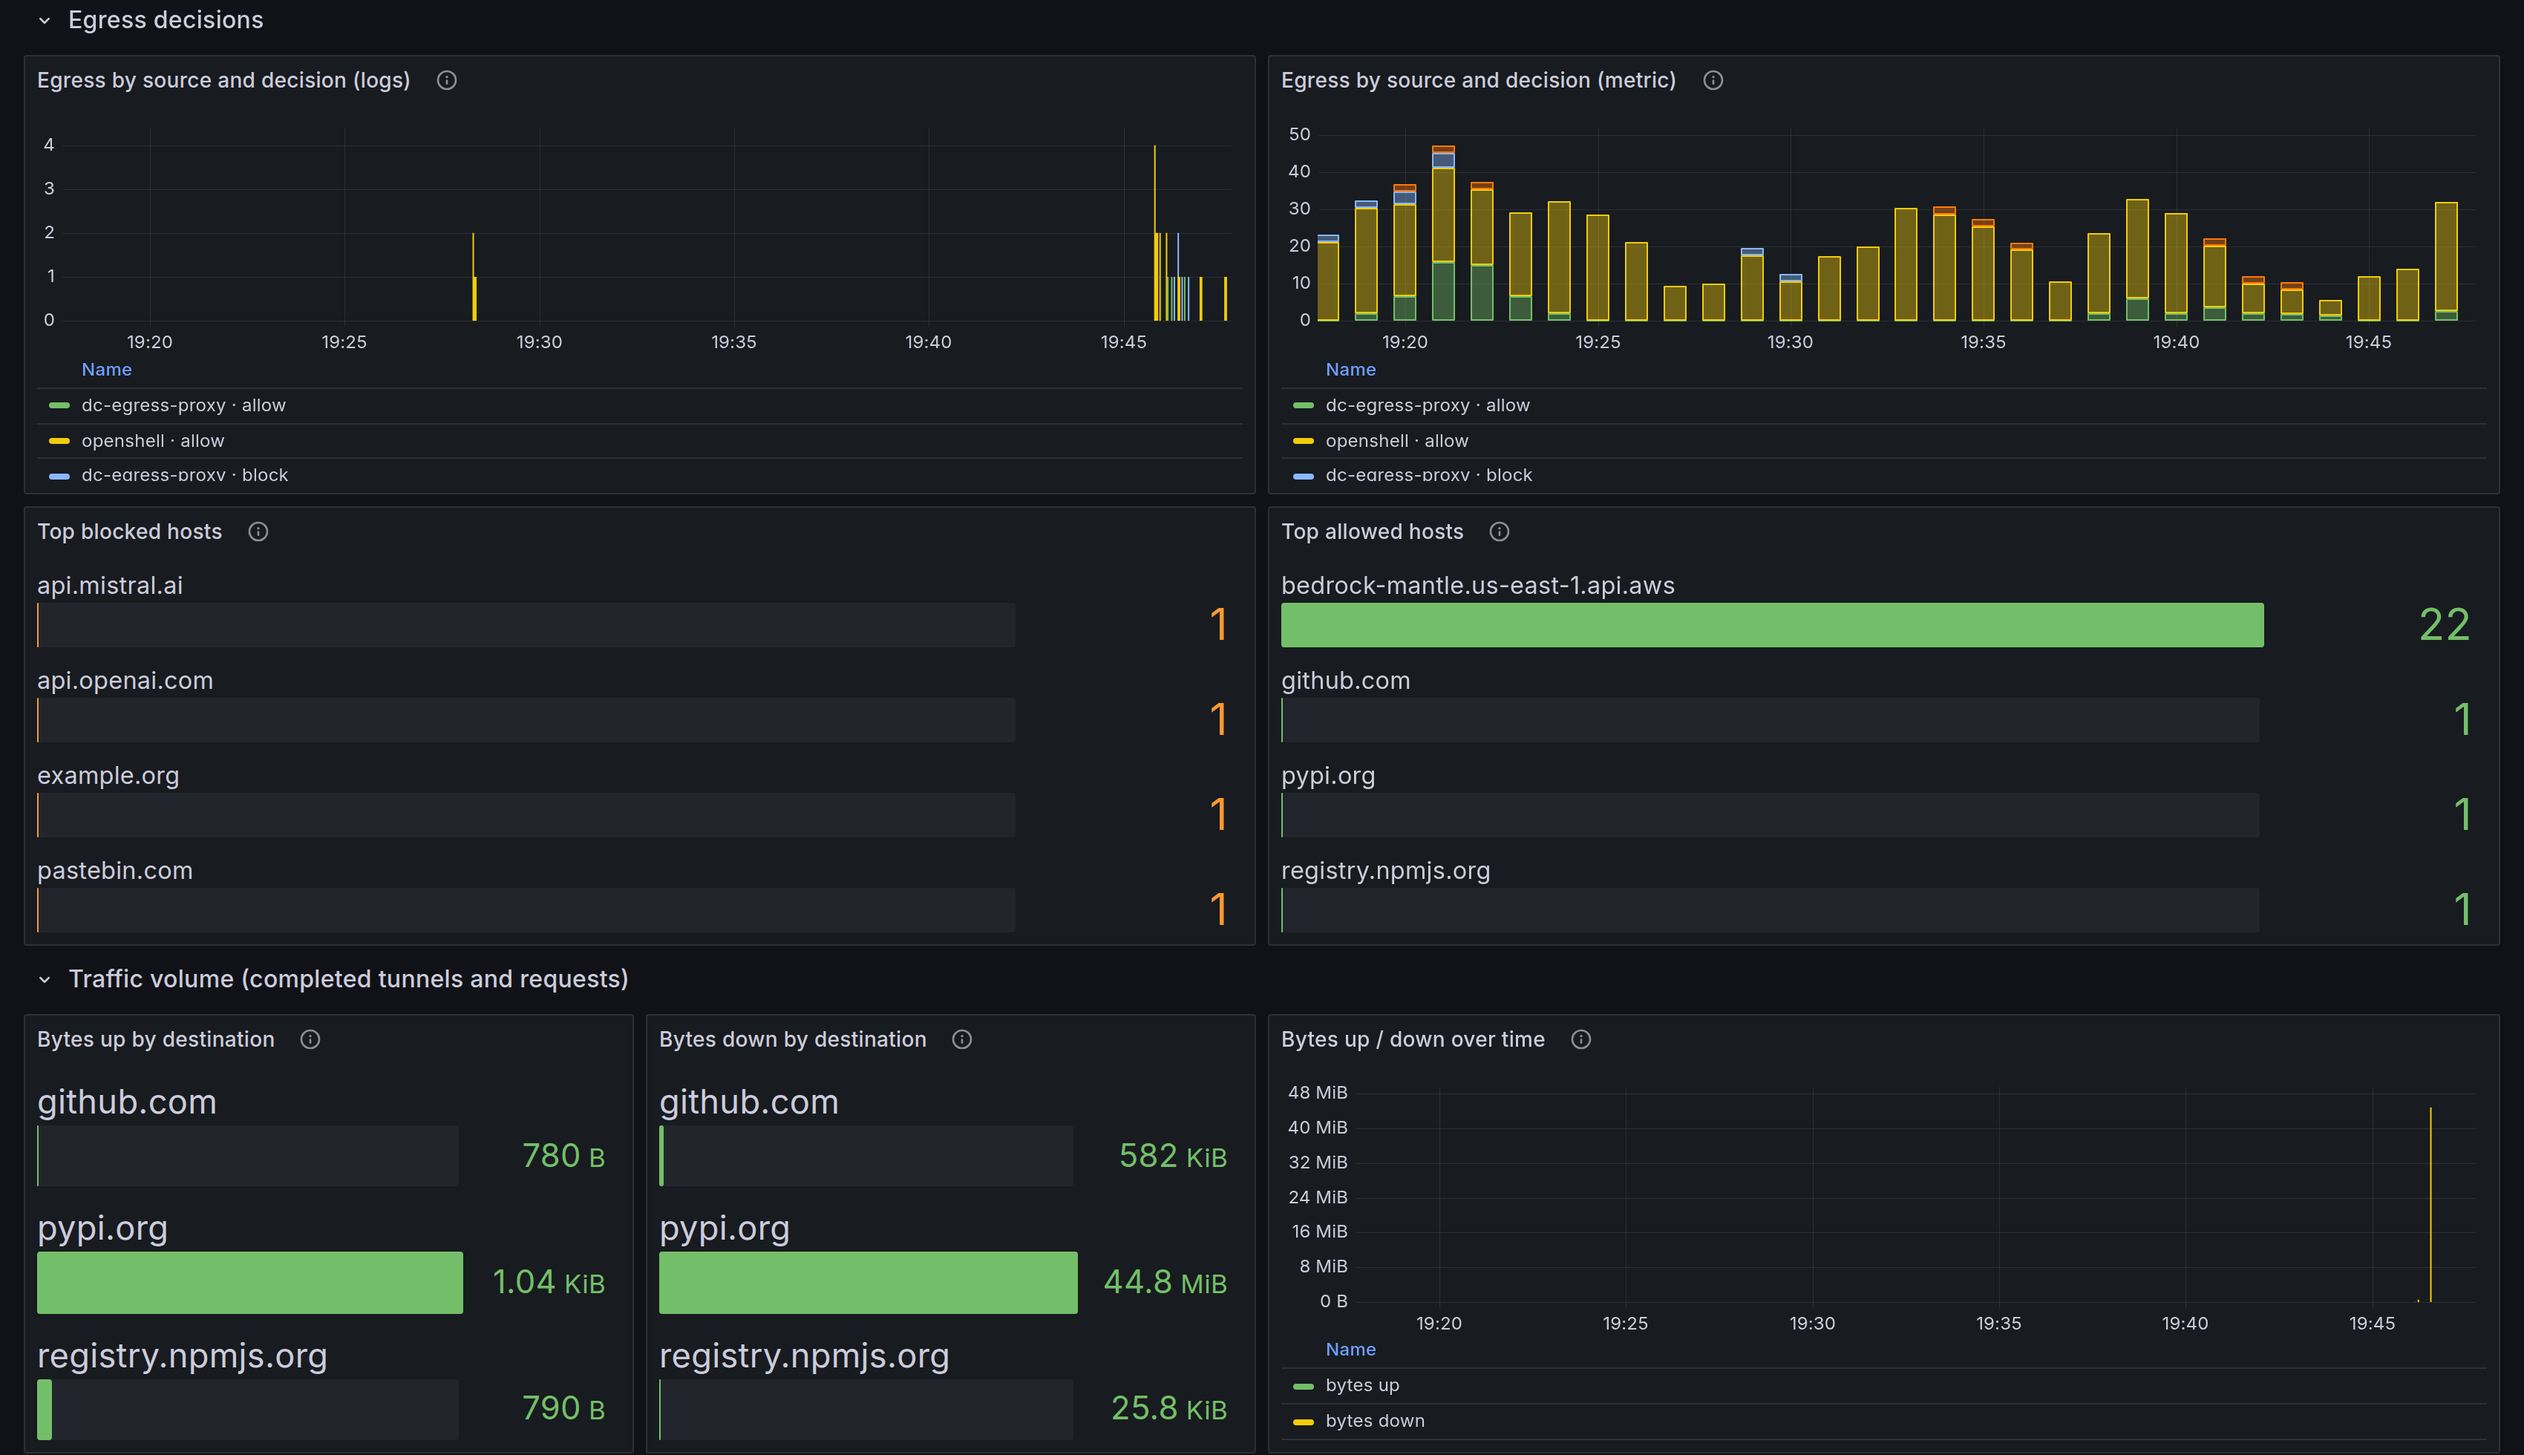
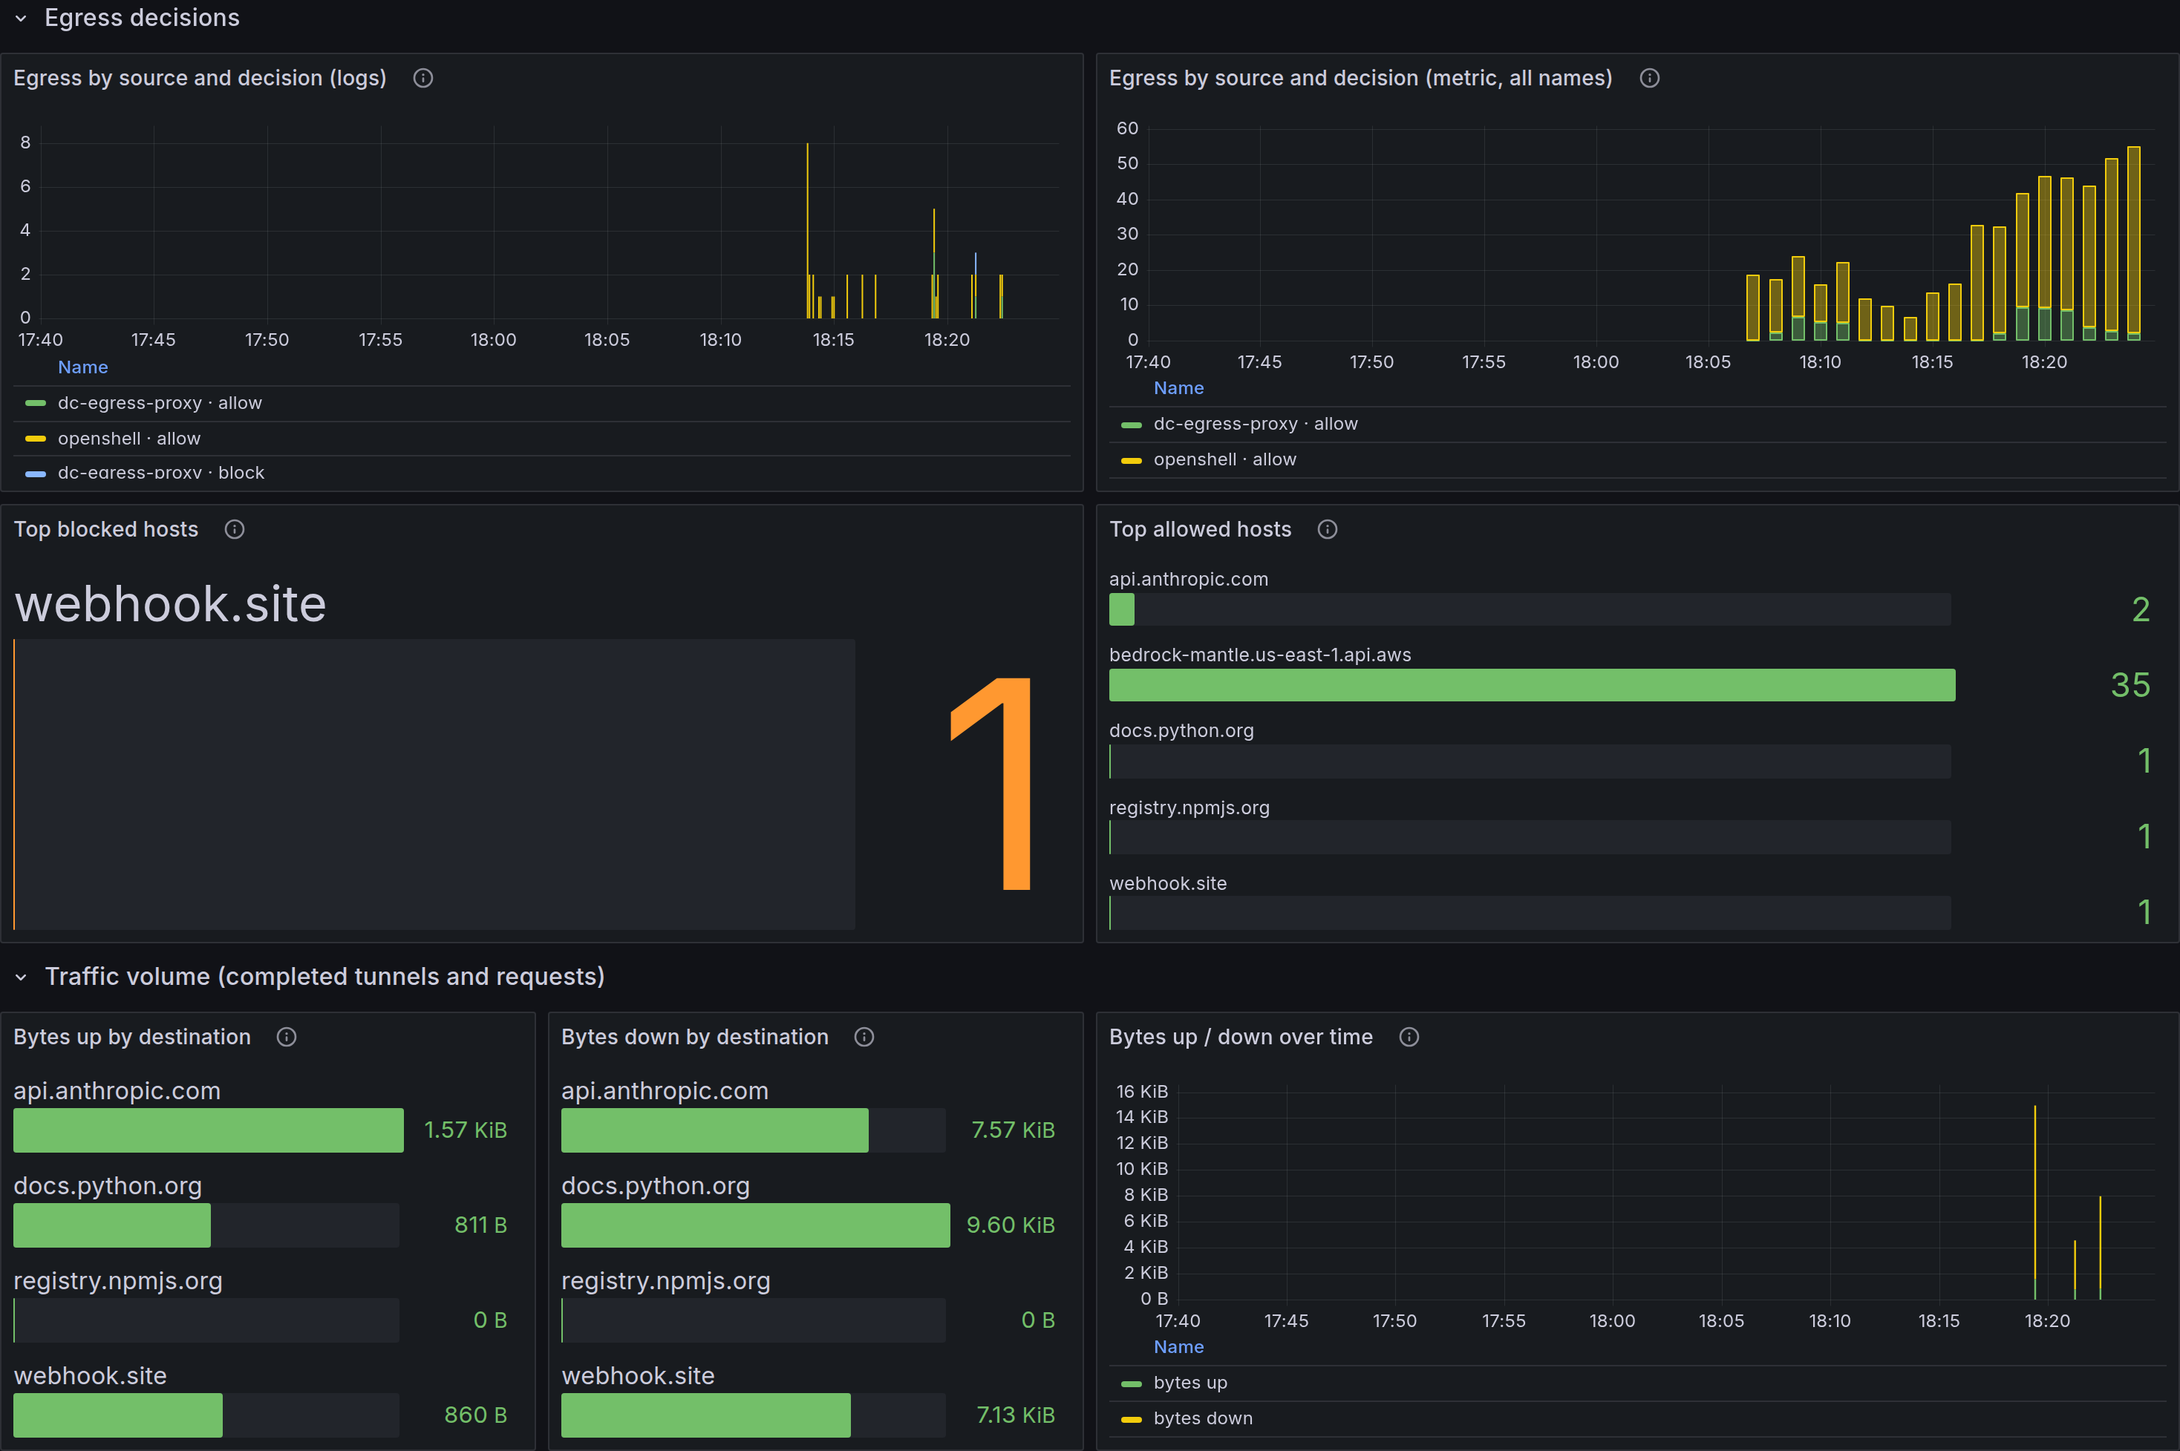
docs(sandbox): replays of real sessions, refreshed screenshots, trust and reconstruct sections
Add TerminalAnimation replays built from real transcripts: sandbox setup on Linux,
a whole first session, the activity feed, an ask and its answer, applying and
undoing a copy's work, record then lock, and four policy test runs (captured on
1.0.35). Replace the stale or account-name screenshots: the Grafana Sandboxes
overview and egress shots (panel titles of the current board), the Linux doctor
(lab account masked), the TUI details of a Mac and a Linux sandbox (process tree,
destinations with lineage, current AI summary). Add the Linux Setup wizard, the
TUI Activity view, the TUI AI Discovery rows of a sandbox, the Linux process tree
and status, a Linux session end with shadow AI, and a Splunk search of a
sandbox's actions. New sections: what you can see and how far to trust it
(sandboxes overview) and reconstruct a session (sandbox telemetry).

diff --git a/CHANGELOG.md b/CHANGELOG.md
@@ -204,6 +204,25 @@ stopped`. Nothing is changed; use the install command above.
   `config unset` could, for the whole list. An unblock refused by your own
   block list names the command.
 
+### Sandbox documentation
+
+- New [Sandbox telemetry](https://cisco-ai-defense.github.io/defenseclaw/docs/observability/sandbox-telemetry/)
+  page: the v8 records an OpenShell sandbox writes (lifecycle, egress decisions
+  with `log.egress.completed` bytes and duration, asks, policy changes,
+  findings, process and inference records), the attributes that name the
+  sandbox, the egress decision codes, the `openshell_*` health codes
+  (`openshell_egress_auth_failed`, `openshell_telemetry_failed`), the metrics,
+  what leaves the host, and how to reconstruct a session from the records.
+- `sandbox doctor --output json` documents `ready`, `openshell_install`,
+  `openshell_upgrade` and `openshell_install_version`; the guide's error table
+  names the two new health codes; the TUI page says that sandbox components are
+  their own AI Discovery rows and that an alert names its sandbox.
+- Animated replays of real sessions for the sandbox setup, a whole first session,
+  the activity feed, an ask and its answer, applying and undoing a copy's work,
+  record-then-lock and `policy test`; the Grafana Sandboxes board and
+  Setup wizard screenshots come from the 1.0.32 and 1.0.35 builds, with the
+  Linux Setup wizard added.
+
 ## [Unreleased] — Enterprise hardening
 
 Entries that name the enterprise standalone profile apply only there; the
